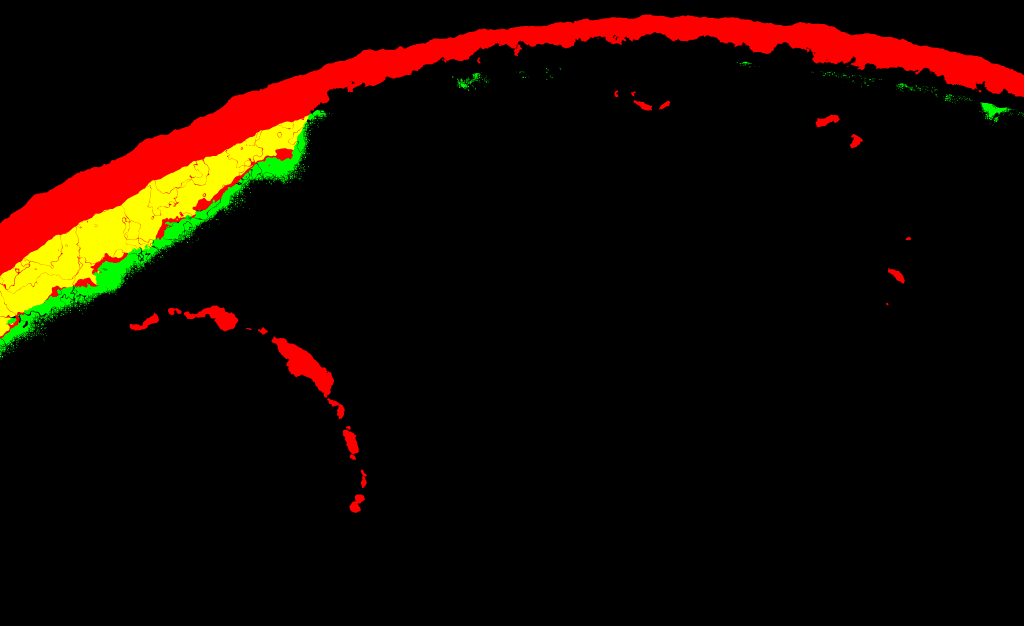
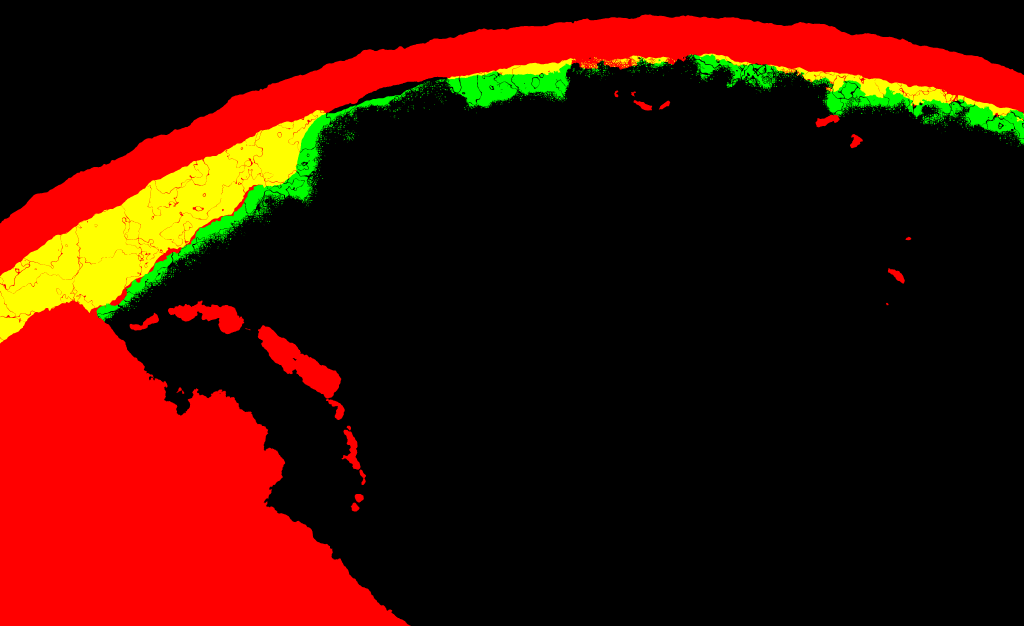
Reveal ocean V2 candidate: more land (amount D), fat shelves, lit strands, silt by the current field, ice sheet, sea in more blues

diff --git a/src/places/reveal/land/ocean.ts b/src/places/reveal/land/ocean.ts
@@ -45,7 +45,7 @@ vec3 oceanLandAt(vec2 xz) {
 vec3 oceanDeep(vec3 bedAt, float seen) {
   float depth = bedAt.r;
   vec3 c = mix(vec3(0.0004, 0.0016, 0.0048), DEEP, smoothstep(0.1, 0.32, depth));
-  c = mix(c, vec3(0.003, 0.014, 0.027), ${(0.85 * SHELF_STRENGTH).toFixed(3)} * smoothstep(0.35, 0.62, depth));
+  c = mix(c, vec3(0.0036, 0.019, 0.036), ${(0.9 * SHELF_STRENGTH).toFixed(3)} * smoothstep(0.32, 0.6, depth));
   c = mix(c, vec3(0.014, 0.07, 0.078), ${(0.9 * SHELF_STRENGTH).toFixed(3)} * smoothstep(0.68, 1.0, depth));
   float cold = min(bedAt.b / 0.45, 1.0);
   c = mix(c, vec3(0.0058, 0.014, 0.0155), 0.7 * cold * cold);
@@ -55,7 +55,7 @@ vec3 oceanDeep(vec3 bedAt, float seen) {
 // The silt of three rivers, carried by the current: pale tan where it is thick at the mouth, a grey green veil where it has thinned.
 vec3 oceanSilt(vec3 bed, vec3 bedAt, float seen) {
   float silt = max(2.0 * bedAt.g - 1.0, 0.0);
-  return mix(bed, mix(vec3(0.05, 0.08, 0.055), vec3(0.2, 0.15, 0.075), smoothstep(0.2, 0.9, silt)), 0.85 * smoothstep(0.02, 0.6, silt) * seen);
+  return mix(bed, mix(vec3(0.05, 0.08, 0.055), vec3(0.2, 0.15, 0.075), smoothstep(0.08, 0.6, silt)), 0.85 * smoothstep(0.0, 0.32, silt) * seen);
 }
 // (The blue of the air over the sea stands for the water's own scatter too: over a basin less of it comes back.)
 float oceanAir(vec3 bedAt, float seen) {
@@ -71,22 +71,26 @@ vec3 oceanOther(vec3 water, vec3 landAt, vec3 bedAt, vec3 light, vec3 glare, vec
   float lit = mix(1.0, clamp(facing / max(uSunDir.y, 0.2), 0.0, 2.2), 0.92);
   // (The body's own lowland colours, muted: dun plain by the shore, olive where it holds water, dark rock on the high ground.)
   float mottle = vnoise(xz / 46.0 + 5.0);
-  vec3 ground = mix(mix(vec3(0.17, 0.132, 0.092), vec3(0.092, 0.1, 0.066), smoothstep(0.35, 0.7, mottle)), vec3(0.076, 0.067, 0.06), smoothstep(0.12, 0.62, height));
+  vec3 ground = mix(mix(vec3(0.17, 0.12, 0.078), vec3(0.092, 0.09, 0.056), smoothstep(0.35, 0.7, mottle)), vec3(0.076, 0.064, 0.054), smoothstep(0.12, 0.62, height));
+  // (A strand of sand where the land comes down to the water: by day the coast is a lit line, under the bone's ivory.)
+  ground = mix(ground, vec3(0.23, 0.185, 0.125), 0.7 * (1.0 - smoothstep(0.0, 0.07, height)));
   // (Surf where the open sea meets it, on some reaches and not on others.)
-  float surf = smoothstep(0.262, 0.296, landAt.b) * (1.0 - isle) * smoothstep(0.3, 0.62, vnoise(xz / 19.0 + 31.0)) * seen;
+  float surf = smoothstep(0.262, 0.296, landAt.b) * (1.0 - isle) * smoothstep(0.3, 0.62, 1.0 - mottle) * seen;
   water = mix(water, vec3(0.6, 0.65, 0.68) * light / 3.14159, 0.5 * surf * surf);
-  // (By night the land is a shade on the sea, no more: no light stands on it.)
+  // (Under the moon the pale water of its shelf is the first thing found of an island, faint; the land stands in it as a shade
+  // of the same value, never a dark hole in a pale ring. No light stands on it.)
+  water += vec3(0.017, 0.068, 0.08) * light / 3.14159 * clamp(landAt.b / 0.29, 0.0, 1.0) * uEmber.x * seen;
   // (The air over the sun's image is bright: land that stands in it is seen through that light, as the body is.)
   vec3 groundLit = ground * light * lit / 3.14159 + 0.4 * glare;
-  water = mix(water, mix(groundLit, 0.6 * water + 2.2 * groundLit, uEmber.x), isle);
+  water = mix(water, mix(groundLit, 0.95 * water + 2.6 * groundLit, uEmber.x), isle);
   // (The pack and the sheet on the far land: blue grey where it is thin and in its leads, blue white where it is thick, blue in
   // the shade of its own relief. Never the bone's ivory. Into the air of the planet's edge it goes bluer and dimmer.)
   float ice = smoothstep(0.52, 0.8, bedAt.b) * seen;
-  vec3 pack = mix(vec3(0.2, 0.3, 0.37), vec3(0.4, 0.47, 0.53), smoothstep(0.7, 0.98, bedAt.b)) * (0.9 + 0.2 * vnoise(xz / 31.0 + 9.0));
+  vec3 pack = mix(vec3(0.2, 0.3, 0.37), vec3(0.46, 0.53, 0.6), smoothstep(0.7, 0.98, bedAt.b));
   pack *= mix(vec3(1.0), mix(vec3(0.5, 0.64, 0.84), vec3(1.0), clamp(lit, 0.0, 1.0)) * min(lit, 1.25), isle);
   pack *= mix(vec3(0.42, 0.56, 0.74), vec3(1.0), smoothstep(0.04, 0.3, mu));
-  // (Under the moon it is a grey well under the cloud's.)
-  return mix(water, pack * light * (1.0 - 0.93 * uEmber.x) / 3.14159, ice);
+  // (Under the moon it is a grey a little over the sea's and well under the cloud's.)
+  return mix(water, pack * light * (1.0 - 0.93 * uEmber.x) / 3.14159 + 0.7 * uEmber.x * water, ice);
 }
 #endif
 `;

diff --git a/assets-src/reveal/land/ocean/make_ocean.py b/assets-src/reveal/land/ocean/make_ocean.py
@@ -8,7 +8,7 @@
   assets-src/reveal/land/ocean/ocean-mask.png  for the weather: red other land, green ice (1024 px wide, the same rectangle)
 
 All cover one rectangle of the master picture (px): x -1800 to 7416, y -800 to 4834.
-Run from the repo root: python3 assets-src/reveal/land/ocean/make_ocean.py [--amount A|B|C] [--ice 1.0] [--quick] [--out DIR]
+Run from the repo root: python3 assets-src/reveal/land/ocean/make_ocean.py [--amount A|C|B|D|E] [--ice 1.0] [--quick] [--out DIR]
 Everything is computed from fixed seeds; nothing is drawn by hand and no picture is generated.
 """
 import sys
@@ -23,7 +23,7 @@ def arg(name, default):
 
 QUICK = '--quick' in sys.argv
 FAST = QUICK or '--fast' in sys.argv      # no erosion and short streaks: for trying the layout, the bed or the silt
-AMOUNT = arg('--amount', 'C')
+AMOUNT = arg('--amount', 'D')
 ICE = float(arg('--ice', '1.0'))
 W, H = (1024, 626) if QUICK else (4096, 2504)
 X0, Y0, PW = -1800.0, -800.0, 9216.0
@@ -32,7 +32,11 @@ LIMB = (4241.0, 9956.0, 10183.0)
 OUT = arg('--out', 'out/work/ocean' if QUICK else 'public/assets/reveal/land')
 # How much of the other land there is: A as first sketched, B the arc's two largest grown to real islands and the far coast
 # further in from the edge, C between the two.
-GROW = {'A': 0.0, 'C': 0.5, 'B': 1.0}[AMOUNT]
+GROW = {'A': 0.0, 'C': 0.5, 'B': 1.0, 'D': 1.0, 'E': 1.45}[AMOUNT]
+# (D and E: the far coast comes further in from the planet's edge and a mainland stands behind the island arc, at the lower left
+# corner of the titan's frame; E has the arc's largest islands larger too.)
+FAR = {'A': 0.0, 'C': 0.5, 'B': 1.0, 'D': 2.3, 'E': 2.3}[AMOUNT]
+MAIN = AMOUNT in ('D', 'E')
 
 xs = X0 + (np.arange(W, dtype=np.float32) + 0.5) * S
 ys = Y0 + (np.arange(H, dtype=np.float32) + 0.5) * S
@@ -146,12 +150,20 @@ isle = arc_field + 0.3 * shore_rough * sstep(-0.7, -0.05, arc_field) + 0.2 * (0.
 ldx, ldy = MX - LIMB[0], MY - LIMB[1]
 lth = np.degrees(np.arctan2(ldx, -ldy))            # 0 straight up, negative to the left
 inside = LIMB[2] - np.hypot(ldx + 0.6 * warp_x, ldy + 0.6 * warp_y)   # master px inside the edge of the planet
-reach = 215.0 + 115.0 * GROW + 60.0 * fbm(700, 3, 31) + 36.0 * fbm(160, 4, 32) + (90.0 + 60.0 * GROW) * sstep(-24.0, -34.0, lth)
+reach = 215.0 + 115.0 * FAR + 60.0 * fbm(700, 3, 31) + 36.0 * fbm(160, 4, 32) + (90.0 + 60.0 * FAR) * sstep(-24.0, -34.0, lth)
 # (It ends before the body's shoulder: past 17 degrees left of the top it sinks under the sea.)
 ends = sstep(-17.0, -20.5, lth) * sstep(-47.0, -41.0, lth)
 far = (reach - inside) / 150.0 - 3.0 * (1.0 - ends)
 far_land = np.clip(far, -1.0, 1.6) * 0.5 + 0.2 * shore_rough * sstep(-0.6, 0.1, far) + 0.34 * (0.5 + 0.5 * crag) * sstep(0.0, 0.9, far)
 far_land[inside < -420.0] = -1.0
+# The mainland behind the arc: the arc's trench faces the body, a shallow sea lies behind the islands, and behind that sea a coast.
+main_land = np.full((H, W), -1.0, np.float32)
+if MAIN:
+    # (It is no island: away from the body it runs on out of the map, and only its coast toward the arc is ever seen.)
+    away = np.maximum(sstep(100.0, 150.0, ang), sstep(-12.0, -60.0, ang))
+    back = (800.0 + 3500.0 * away + 170.0 * fbm(700, 3, 33) + 70.0 * fbm(170, 4, 34) - rad) / 150.0
+    main_land = (np.clip(back, -1.0, 1.6) * 0.5 + 0.2 * shore_rough * sstep(-0.6, 0.1, back) + 0.34 * (0.5 + 0.5 * crag) * sstep(0.0, 0.9, back)).astype(np.float32)
+isle = np.maximum(isle, main_land)
 land = np.maximum(isle, far_land)
 
 # (Nothing of it near the body: a limb's width and more of open water round the body's own shelf, whatever the noise did.)
@@ -216,7 +228,7 @@ slope_y = np.clip(0.5 + 0.5 * gy * RISE / 1.6, 0.0, 1.0)
 land_map = np.stack([slope_x, slope_y, blue], axis=-1)
 
 # ---- ocean-bed red: the sea bed ----
-bed = 0.27 + 0.1 * fbm(1500, 4, 51) + 0.03 * fbm(300, 4, 52, ridged=True)
+bed = 0.27 + 0.15 * fbm(1500, 4, 51) + 0.04 * fbm(300, 4, 52, ridged=True)
 # (The floor climbs to the body from far out, on one side early and on another late.)
 bed += 0.17 * np.exp(-body_px / (200.0 * (0.4 + 1.2 * sstep(-1.0, 1.0, fbm(1100, 2, 53)))))
 # (The deepest basin lies west of the skull, which stands out of it alone, and another off the far coast's shelf.)
@@ -242,7 +254,7 @@ bed += 0.42 * np.exp(-np.maximum(inside - reach, 0.0) / (120.0 + 60.0 * sstep(-1
 bed = np.clip(bed, 0.02, 0.78)
 # (Every coast of the other land stands on its own shelf, uneven.)
 # (Wide enough that an island is found by its pale water before its rock is, as the body is.)
-bed = np.maximum(bed, np.exp(-land_px / (95.0 + 110.0 * sstep(-1.0, 1.0, fbm(260, 3, 57)))))
+bed = np.maximum(bed, np.minimum(1.15 * np.exp(-(land_px / (150.0 + 130.0 * sstep(-1.0, 1.0, fbm(260, 3, 57)))) ** 1.5), 1.0))
 bed = blur(bed.astype(np.float32), 3.0)
 
 # ---- ocean-bed blue: the ice. A pack off the far coast, widest in its bays; floes, and leads that widen to its margin ----

diff --git a/assets-src/reveal/land/ocean/RECIPE.md b/assets-src/reveal/land/ocean/RECIPE.md
@@ -4,16 +4,16 @@
 
 Made by: `assets-src/reveal/land/ocean/make_ocean.py` (Python 3, numpy, OpenCV, Pillow). No image model.
 From: `assets-src/reveal/land/ocean/body-10027.png` (the part reveal/continent drawn alone at film frame 10027, review hd: where the film draws the body), and fixed seeds in the script.
-Prompt or command: `python3 assets-src/reveal/land/ocean/make_ocean.py --amount C` from the repo root. Writes `public/assets/reveal/land/ocean-bed.jpg`, `ocean-land.jpg` and `assets-src/reveal/land/ocean/ocean-mask.png`.
-Takes: 1 of 6 runs as the layout and the bed were tuned; the last is kept.
-Why this one: the sea of the titan frame was one navy. The map gives it a bed (red: basins, a rise to the body, a trench and a platform for the island arc, banks, the shelves of the other land), bloom drawn out along one current field that follows the lines of equal depth (green), and the cold water and the pack ice off the far coast (blue: under 0.45 cold, over 0.5 floes and leads). 4096 x 2504 over the master rectangle x -1800 to 7416, y -800 to 4834.
+Prompt or command: `python3 assets-src/reveal/land/ocean/make_ocean.py` from the repo root (amount D is the default). Writes `public/assets/reveal/land/ocean-bed.jpg`, `ocean-land.jpg` and `assets-src/reveal/land/ocean/ocean-mask.png`.
+Takes: the last of about 25 runs (not counted one by one) as the layout, the bed, the ice and the silt were tuned.
+Why this one: the sea of the titan frame was one navy. The map gives it a bed (red: basins, a rise to the body, a trench and a platform for the island arc, banks, the shelves of the other land), bloom drawn out along one current field that follows the lines of equal depth and the silt of three rivers of the lower leg, carried from their mouths by that same field (green: under a half bloom, over it silt), and the cold water and the ice (blue: under 0.45 cold, over 0.5 ice: a sheet that lies on over the far land to the planet's edge, a thin pack with a broken margin on the sea before it). 4096 x 2504 over the master rectangle x -1800 to 7416, y -800 to 4834.
 Date: 2026-11-28
 
 ## ocean-land.jpg
 
 Made by: `assets-src/reveal/land/ocean/make_ocean.py` (Python 3, numpy, OpenCV, Pillow). No image model.
 From: `assets-src/reveal/land/ocean/body-10027.png` and fixed seeds in the script.
-Prompt or command: `python3 assets-src/reveal/land/ocean/make_ocean.py --amount C` from the repo root (the same run as ocean-bed.jpg). `--amount A` and `--amount B` give less and more of the other land.
-Takes: 1 of 6 runs; the last is kept. Amounts A, B and C were drawn side by side for the lead.
-Why this one: Brandon's note of 27 November: no other landmasses. An island arc of unlike volcanic islands convex toward the body, low islands on rises at the top and in the sun's image, and a far coast under the planet's edge, each a height field cut by a stream power erosion (red, green: its slope; blue: its height, over 0.3 land, under it how shallow the water by it is). Nothing nearer the body than 330 px of the master, nothing by the hurricane.
+Prompt or command: `python3 assets-src/reveal/land/ocean/make_ocean.py` from the repo root (the same run as ocean-bed.jpg). `--amount A`, `C` and `B` give less of the other land, `E` larger islands in the arc.
+Takes: the last of about 25 runs. Amounts A, C and B, then B, D and E were drawn side by side for the lead; D is kept until the lead chooses.
+Why this one: Brandon's note of 27 November: no other landmasses. An island arc of unlike volcanic islands convex toward the body, low islands on rises at the top and in the sun's image, a far coast under the planet's edge and, from amount D, a mainland behind the arc that runs on out of the map at the lower left, each a height field cut by a stream power erosion (red, green: its slope; blue: its height, over 0.3 land, under it how shallow the water by it is). Nothing nearer the body than 330 px of the master, nothing by the hurricane.
 Date: 2026-11-28

diff --git a/assets-src/reveal/ROWS-reveal_ocean_builder_n30.md b/assets-src/reveal/ROWS-reveal_ocean_builder_n30.md
@@ -2,5 +2,5 @@
 
 | file | what | tool or model | prompt | take | date |
 | --- | --- | --- | --- | --- | --- |
-| public/assets/reveal/land/ocean-bed.jpg | the sea from orbit over the master rectangle x -1800 to 7416, y -800 to 4834: red the sea bed (0 the deepest basin, 1 a shoal), green bloom along the currents, blue the cold of the water (under 0.45) and the pack ice (over 0.5). 4096 x 2504 | assets-src/reveal/land/ocean/make_ocean.py (numpy, OpenCV, Pillow) from assets-src/reveal/land/ocean/body-10027.png and fixed seeds | none: no image model | 1 of 6 runs | 2026-11-28 |
-| public/assets/reveal/land/ocean-land.jpg | the other land over the same rectangle: red and green its slope, blue its height (over 0.3 land, under it how shallow the water by it is). 4096 x 2504 | the same run of make_ocean.py | none: no image model | 1 of 6 runs | 2026-11-28 |
+| public/assets/reveal/land/ocean-bed.jpg | the sea from orbit over the master rectangle x -1800 to 7416, y -800 to 4834: red the sea bed (0 the deepest basin, 1 a shoal), green bloom along the currents (under a half) and the silt of three rivers (over it), blue the cold of the water (under 0.45) and the ice (over 0.5). 4096 x 2504 | assets-src/reveal/land/ocean/make_ocean.py (numpy, OpenCV, Pillow) from assets-src/reveal/land/ocean/body-10027.png and fixed seeds | none: no image model | last of about 25 runs | 2026-11-28 |
+| public/assets/reveal/land/ocean-land.jpg | the other land over the same rectangle: red and green its slope, blue its height (over 0.3 land, under it how shallow the water by it is). 4096 x 2504 | the same run of make_ocean.py | none: no image model | last of about 25 runs | 2026-11-28 |
